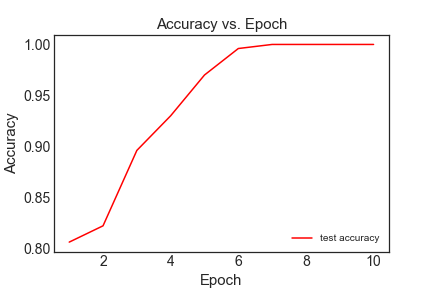
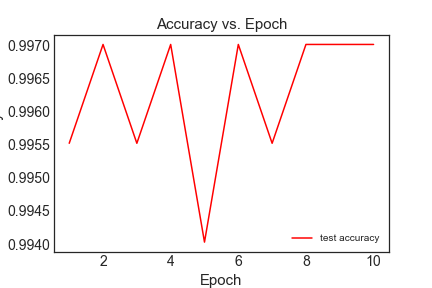
Full working code optimize. Unable to make my Image as main data stucture but overall it is working Todo: Test full run.

diff --git a/TIPP_DLF_Q2.py b/TIPP_DLF_Q2.py
@@ -19,13 +19,12 @@ imgMan.procesImages()
 # imgMan.displayProcessImages()
 #%%
 X_Train,y_train,X_Test,y_test,X_Val,y_Val=imgMan.get_Train_Test_Val_Data()
-print(X_Train.shape)
-print(y_train.shape)
-print(X_Test.shape)
-print(y_test.shape)
-print(X_Val.shape)
-print(y_Val.shape)
-
+print('X_train shape: '+str(X_Train.shape))
+print('y_train shape: '+str(y_train.shape))
+print('X_test shape: '+str(X_Test.shape))
+print('y_test shape: '+str(y_test.shape))
+print('X_Val shape: '+str(X_Val.shape))
+print('y_Val shape: '+str(y_Val.shape))
 
 # %%
 cnnMod=CNNModel(imgMan.getSideDimension(),X_Train,y_train,X_Test,y_test)
@@ -39,24 +38,22 @@ hiddenUnit=[256,128]
 
 dictParam={'epochs':epoch,'batch_size':batSize,'anOptimizer':optimizers,'outActivation':outAct,'hidUnit':hiddenUnit}
 start=time.time()
-df_full,df_result,bestParam,bestScore,model=cnnMod.findOptimizeParamCV(dictParam,fold=2)
+df_full,df_result,bestParam,bestScore,model=cnnMod.findOptimizeParamCV(dictParam,fold=3)
 end=time.time()
 # %%
-print('Time taken for grid search is '+str(start-end)+" seconds")
+print('Time taken for grid search is '+str(end-start)+" seconds")
 # %%
 #Print full results to output_Q2/DF_Full_Result.xlsx
 df_full.to_excel(output2+"DF_Full_Result.xlsx")
-df_full
 # %%
+#Print partial results to output_Q2/DF_Partial_Result.xlsx
+df_result.to_excel(output2+"DF_Partial_Result.xlsx")
+df_result.head()
 # %%
 # Show the best parameter to be used after grid search
 bestParam
 df_param=pd.DataFrame([bestParam])
 df_param
-# %%
-#Print partial results to output_Q2/DF_Partial_Result.xlsx
-df_result.to_excel(output2+"DF_Partial_Result.xlsx")
-df_result.head()
 # %%
 # Show the best score after grid search
 print('Best accuracy after grid search on training data: '+str(bestScore))
@@ -68,16 +65,18 @@ print('Accuracy of grid search model on test data: '+str(res))
 #%%
 # Train new model with best parameters using full data set
 start=time.time()
-df,nw,hist=cnnMod.trainModel(bestParam,X_Train,y_train)
+df_metrics,network,hist=cnnMod.trainModel(bestParam,X_Train,y_train)
 end=time.time()
 #%%
 print('Time taken for training model is '+str(end-start)+" seconds")
 # %%
 #Show mertrics after training with best parameters
-df
+df_metrics
 #%%
-param= nw.evaluate(X_Test, y_test,batch_size=bestParam.get('batch_size'))
+#Evaluate trained network with test data
+param= network.evaluate(X_Test, y_test,batch_size=bestParam.get('batch_size'))
 #%%
+#Print results of test data
 print('Eval test loss:', param[0])
 print('Eval test accuracy:', param[1]*100)
 print('Eval test precision:', param[2]*100)
@@ -88,34 +87,51 @@ print('Eval test true negative:', param[6])
 print('Eval test true positive:', param[7])
 
 #%%
+# Display loss vs epoch graph for test Data. See \output_Q2\Loss.png
 analyser=Analyser(output2)
 analyser.plot_loss(hist,'Loss')  
 #%%
-analyser.plot_accuracy(hist,'Accuracy') 
+# Display loss vs epoch graph for test Data. See \output_Q2\Accuracy.png
+analyser.plot_accuracy(hist,'Accuracy')
+#%%
+#Evaluate trained network with validation data
+param= network.evaluate(X_Val, y_Val,batch_size=bestParam.get('batch_size'))
+#%%
+#Print results of validation data
+print('Eval test loss:', param[0])
+print('Eval test accuracy:', param[1]*100)
+print('Eval test precision:', param[2]*100)
+print('Eval test recall:', param[3]*100)
+print('Eval test false negative:', param[4])
+print('Eval test false positive:', param[5])
+print('Eval test true negative:', param[6])
+print('Eval test true positive:', param[7]) 
 #%%
 # Validate model using validation img
 # %matplotlib inline
 import matplotlib.pyplot as plt
 
-strLableList=imgMan.getStringlablesValList()
-index=0
-wrong=0
-right=0
-for anImage in X_Val:
-    actual = strLableList[index]
-    anImageExpand = np.expand_dims(anImage, axis=0)
-    prob = nw.predict(anImageExpand)
+wrong,right=0,0
+for index,anImage in enumerate(X_Val):
+    
+    actual = np.argmax(y_Val[index])
+    actualStr=imgMan.getStrKeyFromVal(actual)
+
+    prob = network.predict(np.expand_dims(anImage, axis=0))
     predictIndx = np.argmax(prob)
     predictStr=imgMan.getStrKeyFromVal(predictIndx)
-    if actual !=predictStr:
-        wrong=+1
-    if actual ==predictStr:
-        rignt=+1
-        # plt.imshow(anImage)
-        # plt.show()
-        # print('Actual img is: '+ actual)
-        # print('Probability:'+ str(predictIndx) )
-        # print('Predicted img is '+predictStr +'\n')
+
+    if actualStr !=predictStr:
+        # print(actual)
+        # print(predictIndx)
+        plt.imshow(anImage)
+        plt.show()
+        print('Actual img is: '+ actualStr)
+        print('Predicted img is '+predictStr +'\n')
+        wrong+=1
+    if actualStr ==predictStr:
+        right+=1
+
     index+=1
 print('Wrong '+str(wrong))
 print('Right '+str(right))
@@ -123,9 +139,14 @@ print('Right '+str(right))
 
 #%%
 import pickle
-
+#Save Image manager and network model
 data = [X_Test,y_test,X_Train,y_train,X_Val,y_Val]
+
 with open(output2+'Q2_Data.pickle', 'wb+') as out_file:
     pickle.dump(data, out_file)
+with open(output2+'Q2_ImageManager.pickle', 'wb+') as out_file:
+    pickle.dump(imgMan, out_file)
 
-nw.save(output2+"Q2_cNN_model.h5") 
+network.save(output2+"Q2_CNN_model.h5") 
+
+# %%

diff --git a/ImgManager.py b/ImgManager.py
@@ -21,13 +21,13 @@ class ImgManager():
         self.__myImgList=[]
         self.__myProcessImgTrainList=[]
         self.__myProcessImgIntLableTrainList=[]
-        self.__myProcessImgStrLableTrainList=[]
+
         self.__myProcessImgTestList=[]
         self.__myProcessImgIntLableTestList=[]
-        self.__myProcessImgStrLableTestList=[]
+
         self.__myProcessImgValList=[]
         self.__myProcessImgIntLableValList=[]
-        self.__myProcessImgStrLableValList=[]
+ 
         self.__dictLable={}
         self.test=testSize *ImgManager.__testSet
         self.__selectedDim=0
@@ -106,72 +106,56 @@ class ImgManager():
         Return None
         '''
         print('Processing all images... ')
-
+        
         for myImage in self.__myImgList:
             transformList=myImage.transform(self.__selectedDim)
-            for item in transformList:
+            for aTransformImg in transformList:
                 if(myImage.getGrpType()==ImgManager.__Train):
-                    self.__myProcessImgTrainList.append(item)
+                    self.__myProcessImgTrainList.append(aTransformImg)
                     self.__myProcessImgIntLableTrainList.append(myImage.getIntLable())
-                    self.__myProcessImgStrLableTrainList.append(myImage.getStrLable())
-                elif(myImage.getGrpType()==ImgManager.__Test):
-                    self.__myProcessImgTestList.append(item)
-                    self.__myProcessImgIntLableTestList.append(myImage.getIntLable())
-                    self.__myProcessImgStrLableTestList.append(myImage.getStrLable())
-                else:
-                    self.__myProcessImgValList.append(item)
-                    self.__myProcessImgIntLableValList.append(myImage.getIntLable())
-                    self.__myProcessImgStrLableValList.append(myImage.getStrLable())
 
+                elif(myImage.getGrpType()==ImgManager.__Test):
+                    self.__myProcessImgTestList.append(aTransformImg)
+                    self.__myProcessImgIntLableTestList.append(myImage.getIntLable())
+
+                else:
+                    self.__myProcessImgValList.append(aTransformImg)
+                    self.__myProcessImgIntLableValList.append(myImage.getIntLable())
 
         print('Test Images'+str(len(self.__myProcessImgTestList)))
         print('Train Images '+str(len(self.__myProcessImgTrainList)))
         print('Validation Images '+str(len(self.__myProcessImgValList)))
         print('Processing all images DONE ')
     
-    def displayProcessImages(self, noOfImages=5):
-        index=0
-        for img in self.__myProcessImgTrainList:
-            if(index<noOfImages):
-                cv2.imshow("img_"+str(index),img)
-            index+=1
-        cv2.waitKey(0)
-        cv2.destroyAllWindows()
-    
     #TRAIN
     def __getProcessedImagesTrainList(self):
         # convert to array and normalize the RGB values
         return np.array(self.__myProcessImgTrainList,dtype="float32")/255
+        
 
     def __getIntlablesTrainList(self):
         return to_categorical(np.array(self.__myProcessImgIntLableTrainList))
-    
-    def getStringlablesTrainList(self):
-        return np.array(self.__myProcessImgStrLableTrainList)
     
     #TEST
     def __getProcessedImagesTestList(self):
         # convert to array and normalize the RGB values
         return np.array(self.__myProcessImgTestList,dtype="float32")/255
+        
     
     def __getIntlablesTestList(self):
         #one-hot encoding on the labels
         return to_categorical(np.array(self.__myProcessImgIntLableTestList))
-
-    def getStringlablesTestList(self):
-        return np.array(self.__myProcessImgStrLableTestList)
     
     #Validation
     def __getProcessedImagesValList(self):
         # convert to array and normalize the RGB values
         return np.array(self.__myProcessImgValList,dtype="float32")/255
+        
     
     def __getIntlablesValList(self):
         #one-hot encoding on the labels
         return to_categorical(np.array(self.__myProcessImgIntLableValList))
 
-    def getStringlablesValList(self):
-        return np.array(self.__myProcessImgStrLableValList)
     
     def get_Train_Test_Val_Data(self):
         return self.__getProcessedImagesTrainList(),self.__getIntlablesTrainList(),self.__getProcessedImagesTestList(),self.__getIntlablesTestList(),self.__getProcessedImagesValList(),self.__getIntlablesValList()

diff --git a/Image.py b/Image.py
@@ -1,4 +1,5 @@
 import cv2
+import numpy as np
 class Image():
     
     def __init__(self,imgFile,imgLblStr,imgLblInt,imgGrp):
@@ -12,33 +13,11 @@ class Image():
         Image will be resize and changed color
         Return a list of an image
         '''
-        #resize original image to square
+        #resize original image to square, change to RGB channel and normalize to array
         self.__imageResize = cv2.resize(self.__origImg, (aSide, aSide))
         self.__imageResize = cv2.cvtColor(self.__imageResize,cv2.COLOR_BGR2RGB)
-        # #color change
-        # self.__imgColorChange = cv2.cvtColor(self.__imageResize,cv2.COLOR_BGR2RGB)
-        # #blur image
-        # ksize = (10, 10)
-        # self.__imgBlur = cv2.blur(self.__imageResize, ksize)
-
-        # # flipcode = 0: flip vertically
-        # # flipcode > 0: flip horizontally
-        # # flipcode < 0: flip vertically and horizontally
-        # # flip resize image vertically and horizontally
-        # self.__imgFlip_vert= cv2.flip(self.__imageResize,0)
-        # self.__imgFlip_Horiz= cv2.flip(self.__imageResize,1)
-        # self.__imgFlip_vertHoriz= cv2.flip(self.__imageResize,-1)
-        # #rotate image
-        # self.__imgRotate90CC=cv2.rotate(self.__imageResize,cv2.ROTATE_90_COUNTERCLOCKWISE)
-        # self.__imgRotate90C=cv2.rotate(self.__imageResize,cv2.ROTATE_90_CLOCKWISE)
-        # self.__imgRotate180=cv2.rotate(self.__imgBlur,cv2.ROTATE_180)
-        # self.__imgRotate180CChnage = cv2.cvtColor(self.__imgColorChange,cv2.COLOR_BGR2RGB)
- 
-        # imglist=[self.__imageResize,self.__imgColorChange,self.__imgBlur,
-        # self.__imgFlip_vert,self.__imgFlip_Horiz,self.__imgFlip_vertHoriz,
-        # self.__imgRotate90CC,self.__imgRotate90C,self.__imgRotate180,self.__imgRotate180CChnage
-        # ]
-        imglist=[self.__imageResize]
+        self.__imageFlipHoriz = cv2.flip(self.__imageResize,1)
+        imglist=[self.__imageResize,self.__imageFlipHoriz]
 
         return imglist
 

diff --git a/CNNModel.py b/CNNModel.py
@@ -16,7 +16,6 @@ class CNNModel:
         self.__y_test=yTest
         self.__seed=123
     
-
     def __createVGG16BaseModel(self):
         '''
         Using a pretained model VGG16
@@ -47,7 +46,6 @@ class CNNModel:
 
         model.compile(loss='binary_crossentropy',
               optimizer=anOptimizer, #'rmsprop'
-            #   metrics=['accuracy']
               metrics=['accuracy',metrics.Precision(name = 'Precision'),metrics.Recall(name = 'Recall'),
               metrics.FalseNegatives(name = 'FN'),metrics.FalsePositives(name = 'FP'),
               metrics.TrueNegatives(name = 'TN'),metrics.TruePositives(name = 'TP')] 
@@ -98,8 +96,8 @@ class CNNModel:
 
         for train, test in kf.split(xData, yData):
             history=network.fit(xData[train], yData[train], epochs=bestParam.get('epochs'), 
-                                batch_size=bestParam.get('batch_size'),shuffle=True,verbose=1)
-            scores = network.evaluate(xData[test], yData[test], verbose=0)
+                                batch_size=bestParam.get('batch_size'),shuffle=True,verbose=0)
+            scores = network.evaluate(xData[test], yData[test], batch_size=bestParam.get('batch_size'),verbose=0)
             for i in range(0,len(network.metrics_names)):
                 adict.update({network.metrics_names[i]:scores[i]})
 
